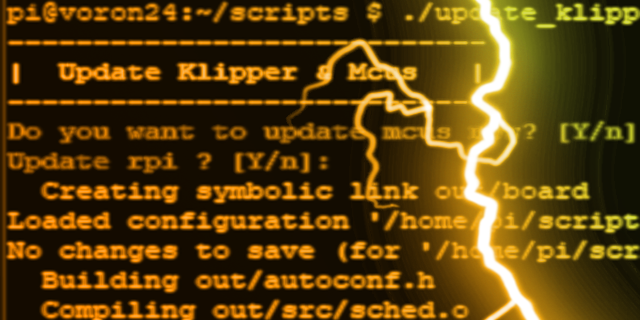
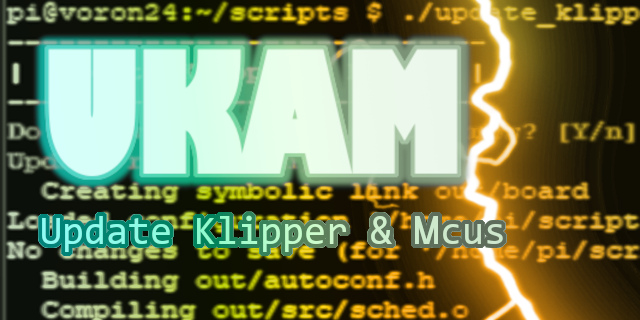
Update Klipper and Mcus becomes UKAM

diff --git a/README.md b/README.md
@@ -1,14 +1,43 @@
-# update_klipper.sh : update Klipper and mcus all-at-once.
-
-![sreenshot](./images/media.png)
+![UKAM_Banner](./images/banner.png)
+# **UKAM : Update Klipper And Mcus** all-at-once.
 
 This is small bash script to update klipper and mcus (main, rpi, can, pico, ... ) and **keep trace of config file for the next update !**
 
-## Disclaimer
->[!WARNING] 
-**This script does not replace your brain. If you don't know how to flash your boards, just go away !**
+## Table of Contents 
+- [Disclaimer](#disclaimer)<!-- omit in toc -->
+- [What UKAM does ?](#what-ukam-does-)
+- [Installation](#installation)
+  - [Method 1 : Manual](#method-1-)
+  - [Method 2 : git clone](#method-2-)
+- [Update UKAM with Moonraker](#update-ukam-with-moonraker)
+- [Usage](#usage)
+- [Edit mcus.ini](#edit-mcusini)
+  - [mcus.ini examples](#mcusini-examples-more-to-come-)
+    - [RPi microcontroller](#rpi-microcontroller)
+    - [Serial connection, UART](#serial-connection-uart)
+    - [Mainboard , USB\_to\_CAN bridge mode (Katapult required)](#mainboard--usb_to_can-bridge-mode-katapult-required)
+    - [RP2040 based board](#rp2040-based-board)
+    - [Mainboard : USB connection](#mainboard--usb-connection)
+    - [Toolhead : CANbus (Katapult required)](#toolhead--canbus-katapult-required)
+- [TODO](#todo)
+- [Aknowledgments](#aknowledgments)
+  
 
-# What it does ?
+## Disclaimer
+> [!WARNING] 
+> **This script does not replace your brain. If you don't know how to flash your boards, just go away !**
+>
+> I admit that this warning is a little condescending. You can find many guides explaining how to flash your boards, I can't list them all. See below some links i used as reference to build the script.
+>
+> - Klipper Documentation
+>   - [Building and flashing the micro-controller](https://www.klipper3d.org/Installation.html#building-and-flashing-the-micro-controller),
+>   - [Building and installing Linux host micro-controller code](https://www.klipper3d.org/Beaglebone.html#building-and-installing-linux-host-micro-controller-code),
+>   - [SDCard update](https://www.klipper3d.org/SDCard_Updates.html),
+>   - [Bootloader entry](https://www.klipper3d.org/Bootloader_Entry.html),
+> - [maz0R Canbus guide](https://maz0r.github.io/klipper_canbus/),
+> - Manufacturers documentations, 
+>  - ...
+## What UKAM does ?
 Update Klipper and apply firmware update for each mcu. Basically it runs:
 ```
 git pull
@@ -26,123 +55,45 @@ service klipper start
 >If you use a previous version of this script, copy the configuration files from ``~/klipper/`` to ``~/<script_folder>/config/``
 
 ### Method 1 :
-Copy ``update_klipper.sh`` and ``mcus.ini`` in a folder of your pi, ``~/update_klipper_and_mcus/`` sounds as a good choice. Let's call this folder ``~/<script_folder>`` in this Readme.
+Copy ``ukam.sh`` and ``mcus.ini`` in a folder of your pi, ``~/ukam/`` sounds as a good choice. Let's call this folder ``~/<script_folder>`` in this Readme.
 
-Ensure to make ``update_klipper.sh`` executable : 
+Ensure to make ``ukam.sh`` executable : 
 ```
 chmod +x ~/<script_folder>/update_klipper.sh
 ```
+
+> [!NOTE]
+> This method does not track update of the script 
+
 ### Method 2 : 
 ```
 cd ~
-git clone https://github.com/fbeauKmi/update_klipper_and_mcus.git
+git clone https://github.com/fbeauKmi/update_klipper_and_mcus.git ukam
 ```
 
-Copy and edit ``mcus.ini`` from examples folder to ``~/update_klipper_and_mcus`/``
+Copy and edit ``mcus.ini`` from examples folder to ``~/ukam/``
 
-## Enable script update with Moonraker
+## Update UKAM with Moonraker
 
-Paste the lines below in mooraker.conf
+Paste the lines below in moonraker.conf
 ```
 [update_manager update_klipper_and_mcus]
 type: git_repo
 primary_branch: main
-path: ~/update_klipper_and_mcus
+path: ~/ukam
 origin: https://github.com/fbeauKmi/update_klipper_and_mcus.git
 is_system_service: False
 ```
-
-## Edit mcus.ini
-
-mcus.ini contains : 
-- sections : the name you give to your mcu between brackets (not necessarly the name in Klipper config)
-- action_command : command executed after the firmware build, whatever you need to prepare, flash or switch off/on the mcu. You can separate command by ``;`` or use several action_command in a section, they are executed in order of appearance.
-- quiet_command : same as action_command but without stdout in QUIET mode 
-
-The flash command depends on you mcus and the way you choose to flash your board : dfu-util, make flash, flashtool, flash_sdcard, mount/cp/umount ... refer to your board documentation to choose the right command
-
-### mcus.ini examples (more to come) : 
-```
-# For Rpi
-[RaspberryPi]
-action_command: make flash
-```
-_source : [Klipper doc](https://www.klipper3d.org/RPi_microcontroller.html#building-the-micro-controller-code)_
-
-```
-# For a MCU in usart, using flash_sdcard
-# The second arg of flash_sdcard.sh is the cpu reference.
-# A list of available values can be found here :
-# https://github.com/Klipper3d/klipper/blob/master/scripts/spi_flash/board_defs.py
-
-[octopus_uart]
-flash_command: ./scripts/flash-sdcard.sh /dev/ttyAMA0 btt-octopus-f446-v1
-```
-_source : [Klipper doc](https://www.klipper3d.org/SDCard_Updates.html)_
-
-```
-# For a MCU in USB to Can bridge using Katapult as bootloader
-# You have to insert your Canbus_uuid and Usb serial below
-[octopus_usb2can]
-quiet_command: python3 ~/katapult/scripts/flashtool.py -i can0 -r -u <YOUR_CANBUS_UUID>; sleep 2
-action_command: python3 ~/katapult/scripts/flashtool.py -d /dev/serial/by-id/usb-katapult_stm32f446xx_<BOARD_ID>-if00
-```
-_source : [Roguyt_prepare_command branch ^^](../roguyt_prepare_command/mcus.ini)_
-
-```
-# For Pico RP2040
-[pico]
-#  No boot loader, need to manually enter in boot mode
-action_command : sudo mount /dev/sda1 /mnt ; sudo cp out/klipper.uf2 /mnt ; sudo umount /mnt
-
-[pico_bootloader]
-# With katapult as bootloader
-action_command : make flash FLASH_DEVICE=/dev/serial/by-id/usb-Klipper_rp2040_<BOARD_ID>-if00
-```
-_source: Cannot remember_
-
-```
-[spider]
-# spider on serial port (rpi gpio)
-action_command: ~/update_klipper_and_mcus/bootloader_serial.py /dev/ttyAMA0 250000
-action_command: ~/katapult/scripts/flashtool.py -d /dev/ttyAMA0 -b 250000
-```
-_source : [Klipper doc](https://www.klipper3d.org/RPi_microcontroller.html#building-the-micro-controller-code)_
-
-```
-[spider]
-# spider on serial port (rpi gpio) at 250000bps
-action_command: ~/update_klipper_and_mcus/bootloader_serial.py /dev/ttyAMA0 250000
-action_command: ~/katapult/scripts/flashtool.py -d /dev/ttyAMA0 -b 250000
-```
-_source : [Klipper doc](https://www.klipper3d.org/Bootloader_Entry.html#physical-serial)_
-
-```
-[catalyst]
-# catalyst on usb-serial port (using bootloader_usb.py)
-action_command: ~/update_klipper_and_mcus/bootloader_usb.py /dev/serial/by-id/usb-Klipper_stm32f401xc_<board_serial>
-quiet_command: sleep 1
-action_command: ~/katapult/scripts/flashtool.py -d /dev/serial/by-id/usb-katapult_stm32f401xc_<board_serial> -b 250000
-```
-_source : [Klipper doc](https://www.klipper3d.org/Bootloader_Entry.html#python-with-flash_usb)_
-
-```
-[catalyst]
-# catalyst on usb-serial port (using make flash)
-action_command: make flash FLASH_DEVICE=/dev/serial/by-id/usb-Klipper_stm32f401xc_<board_serial>
-```
-_source : [Klipper doc](https://www.klipper3d.org/RPi_microcontroller.html#building-the-micro-controller-code)_
-
 ## Usage
 
-Run ``~/<script_folder>/update_klipper.sh`` in a terminal, you can use the following options.
+Run ``~/<script_folder>/ukam.sh`` in a terminal, you can use the following options.
 
 ### -h --help : to see usage
 
 ```
-Usage: update_klipper.sh [<config_file>] [-h]
+Usage: ukam.sh [<config_file>] [-h]
 
-Klipper Firmware Updater script. Update Klipper repo and mcu firmwares
+UKAM, a Klipper Firmware Updater script. Update Klipper repo and mcu firmwares
 
 Optional args: <config_file> Specify the config file to use. Default is 'mcus.ini'
   -c, --checkonly            Check if Klipper is up-to-date only.
@@ -162,6 +113,120 @@ Rollback to the previous version saved by this script. It proceed a hard reset i
 Quiet mode allows you to update all you configure without any interaction. Just run the script and all is done. But ....
 - To use it, you need to run th script in interactive mode at least the first time.
 - while features are modified/added/removed from menuconfig by klipper update, the config file is not updated. It may yield to a build issue.
+
+## Edit mcus.ini
+
+``mcus.ini`` contains : 
+- sections : the name you give to your mcu between brackets (not necessarly the name in Klipper config)
+- ``action_command`` : command executed after the firmware build, whatever you need to prepare, flash or switch off/on the mcu. You can separate command by ``;`` or use several action_command in a section, they are executed in order of appearance.
+- ``quiet_command`` : same as action_command but without stdout in QUIET mode 
+
+The flash command depends on you mcus and the way you choose to flash your board : dfu-util, make flash, flashtool, flash_sdcard, mount/cp/umount ... refer to your board documentation to choose the right command
+
+> [!NOTE] About bootloader entry
+> Helpers makes easier to enter bootloader,(Thanks to @beavis) : `bootloader_serial.py`, `bootloader_usb.py` or newer `enter_bootloader` can be used
+> ```
+> Usage: enter_bootloader -t <usb|serial|can> -d <serial> [-b baudrate] | -u <canbus_uuid>
+>    -t     type of actual firmware connection (serial|usb|can)
+>    -d     serial id, only for serial and usb ( /dev/ttyAMA0, /dev/serial/by-id/...)
+>    -b     baudrate for serial default is 250000
+>    -u     canbus_uuid (if set -t become optional)   
+> ```
+
+### mcus.ini examples (more to come) : 
+#### RPi microcontroller 
+```
+# For Rpi
+[RaspberryPi]
+action_command: make flash
+```
+_source : [Klipper doc](https://www.klipper3d.org/RPi_microcontroller.html#building-the-micro-controller-code)_
+
+#### Serial connection, UART
+
+```
+# For a MCU in usart, using flash_sdcard
+# The second arg of flash_sdcard.sh is the cpu reference.
+# A list of available values can be found here :
+# https://github.com/Klipper3d/klipper/blob/master/scripts/spi_flash/board_defs.py
+
+[octopus_uart]
+flash_command: ./scripts/flash-sdcard.sh /dev/ttyAMA0 btt-octopus-f446-v1
+```
+_source : [Klipper doc](https://www.klipper3d.org/SDCard_Updates.html)_
+
+```
+# For mainboard using bootloader_serial helper 
+[spider]
+# spider on serial port (rpi gpio)
+action_command: ~/ukam/bootloader_serial.py /dev/ttyAMA0 250000
+action_command: ~/katapult/scripts/flashtool.py -d /dev/ttyAMA0 -b 250000
+```
+_source : [Klipper doc](https://www.klipper3d.org/Bootloader_Entry.html#physical-serial)_
+
+#### Mainboard , USB_to_CAN bridge mode (Katapult required)
+
+```
+# For a MCU in USB to Can bridge using Katapult as bootloader
+# You have to insert your Canbus_uuid and Usb serial below
+[octopus_usb2can]
+quiet_command: python3 ~/katapult/scripts/flashtool.py -i can0 -r -u <YOUR_CANBUS_UUID>; sleep 2
+action_command: python3 ~/katapult/scripts/flashtool.py -d /dev/serial/by-id/usb-katapult_stm32f446xx_<BOARD_ID>-if00
+
+# using enter_bootoader function
+[octopus_usb2can]
+quiet_command: enter_bootloader -u <YOUR_CANBUS_UUID>
+action_command: python3 ~/katapult/scripts/flashtool.py -d /dev/serial/by-id/usb-katapult_stm32f446xx_<BOARD_ID>-if00
+```
+_source : [Roguyt_prepare_command branch ^^](../roguyt_prepare_command/mcus.ini)_
+
+#### RP2040 based board
+
+```
+# For Pico RP2040
+[pico]
+#  No boot loader, need to manually enter in boot mode
+action_command : sudo mount /dev/sda1 /mnt ; sudo cp out/klipper.uf2 /mnt ; sudo umount /mnt
+
+[pico_bootloader]
+# With katapult as bootloader
+action_command : make flash FLASH_DEVICE=/dev/serial/by-id/usb-Klipper_rp2040_<BOARD_ID>-if00
+
+[pico_bootloader]
+# With katapult as bootloader
+quiet_command : enter_bootloader -t usb -d /dev/serial/by-id/usb-Klipper_rp2040_<BOARD_ID>-if00
+action_command : ~/katapult/scripts/flashtools.py -d /dev/serial/by-id/usb-Klipper_rp2040_<BOARD_ID>-if00
+
+```
+_source: Cannot remember_
+
+#### Mainboard : USB connection
+
+```
+[catalyst]
+# catalyst on usb-serial port (using bootloader_usb.py)
+action_command: ~/ukam/bootloader_usb.py /dev/serial/by-id/usb-Klipper_stm32f401xc_<board_serial>
+quiet_command: sleep 1
+action_command: ~/katapult/scripts/flashtool.py -d /dev/serial/by-id/usb-katapult_stm32f401xc_<board_serial> -b 250000
+```
+_source : [Klipper doc](https://www.klipper3d.org/Bootloader_Entry.html#python-with-flash_usb)_
+
+```
+[catalyst]
+# catalyst on usb-serial port (using make flash)
+action_command: make flash FLASH_DEVICE=/dev/serial/by-id/usb-Klipper_stm32f401xc_<board_serial>
+```
+_source : [Klipper doc](https://www.klipper3d.org/RPi_microcontroller.html#building-the-micro-controller-code)_
+
+#### Toolhead : CANbus (Katapult required)
+
+```
+[toolhead]
+action_command: ~/katapult/scripts/flashtool.py -u <canbus_uuid>
+```
+
+
+
 
 ## TODO
 not to much, the script works. If you have any suggestions feel free to contact me on Voron discord @fboc
